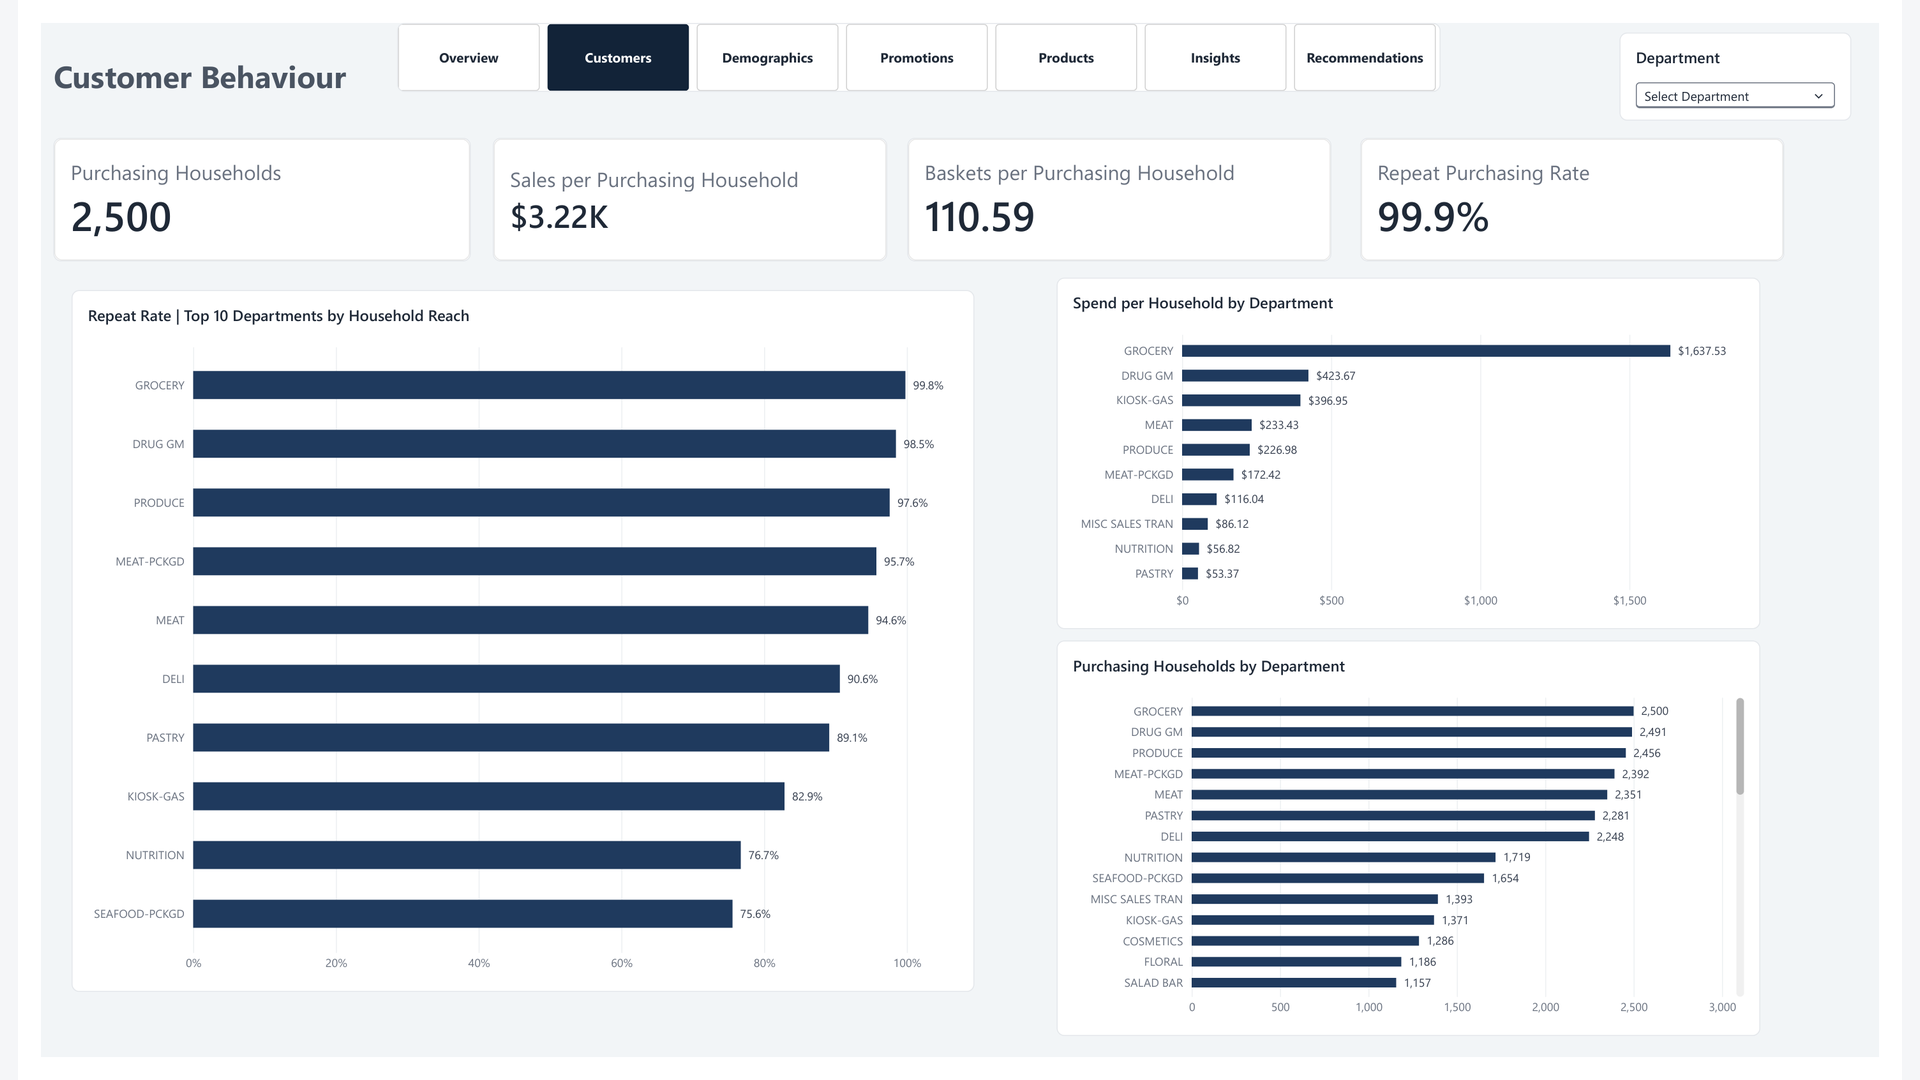
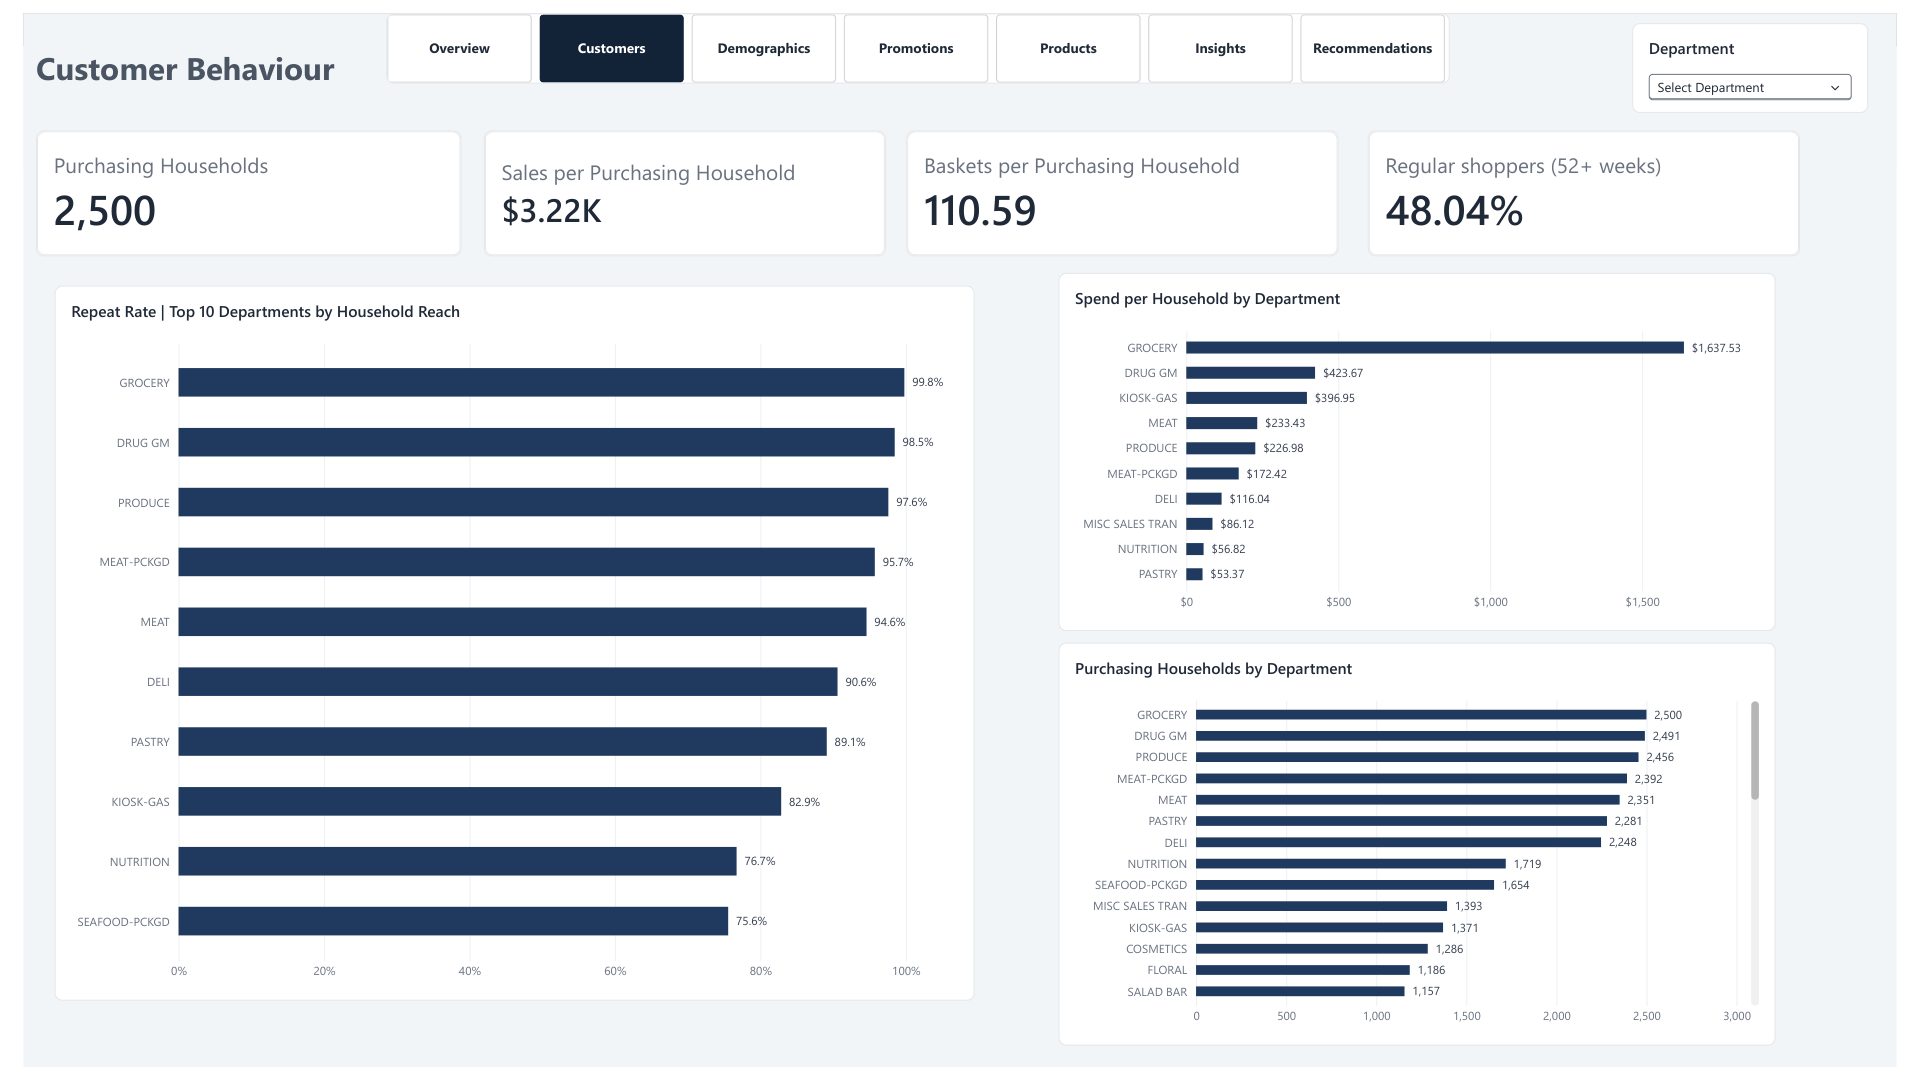
Update final Power BI dashboard and portfolio assets

diff --git a/docs/index.html b/docs/index.html
@@ -107,7 +107,7 @@
     <section id="panel-demographics" class="page-panel" role="tabpanel" aria-labelledby="tab-demographics" tabindex="0" data-panel="demographics" hidden>
       <div class="page-heading">
         <div><p class="eyebrow">03 / Customer demographics</p><h2>Coverage is a key part of the story</h2></div>
-        <p>Income-group findings describe only households with a recorded demographic row, not the full purchasing base.</p>
+        <p>Income-group findings describe households with a recorded demographic row, not the full purchasing base. The (Blank) income category is removed from comparison charts only; unknown households remain included in overall coverage reporting.</p>
       </div>
       <div class="metric-grid metric-grid-three">
         <article class="metric-card"><span>Known demographics</span><strong>801</strong><small>Of 2,500 purchasing households</small></article>
@@ -158,7 +158,7 @@
         <div class="chart-host" data-chart-host="groceryBrand" aria-live="polite"></div>
         <p class="chart-note">These are revenue comparisons, not price, margin or preference measures. Household counts by brand overlap.</p>
       </article>
-      <aside class="callout"><strong>Manufacturer identifiers are not supplier names</strong><p>Manufacturer ID 69 has $2,178,431.70 recorded revenue (27.04% of all sales), but its commercial identity is unverified. It is not labelled as a company here.</p></aside>
+      <aside class="callout"><strong>Manufacturer identifiers are not supplier names</strong><p>On the filtered Power BI Products page, Manufacturer 69 is labelled Mfr 69 (private label) and has a 20.80% share of $7,393,280.76 in page sales. Across all departments, Manufacturer 69 recorded $2,178,431.70, or 27.04% of all sales. These are different reporting scopes, and its commercial identity is unverified.</p></aside>
     </section>
 
     <section id="panel-insights" class="page-panel" role="tabpanel" aria-labelledby="tab-insights" tabindex="0" data-panel="insights" hidden>

diff --git a/docs/dashboard_guide.md b/docs/dashboard_guide.md
@@ -4,11 +4,11 @@ The local Desktop report contains seven business pages plus **DAX TESTING** and 
 
 | Page | What it shows | Saved page slicers |
 |---|---|---|
-| **Executive Overview** | Total sales, baskets, purchasing households, average basket value, sales by reporting week and department performance. | Department; store ID. |
-| **Customer Behaviour** | Purchasing households, sales and baskets per purchasing household, and repeat purchasing measures. | Department. |
-| **Customer Demographics** | Income-group comparisons for purchasing households and sales per purchasing household. | No page slicer identified in the saved definition. |
+| **Executive Overview** | Total sales, baskets, purchasing households, average basket value, sales by reporting week and department performance. The Weekly Sales Trend uses weeks 20–101, linear interpolation and a $0 Y-axis start. Weeks 1–19 are excluded while the household panel was building; approximately 99.7% of households had purchased by week 20. Weeks 1 and 102 are partial, with five and six days respectively. Overview KPI cards remain full-period, including $8.06M in sales. | Department; store ID. |
+| **Customer Behaviour** | Purchasing households, sales and baskets per purchasing household, and Regular shoppers (52+ weeks) at 48.04%. This measure is the percentage of purchasing households that bought products in at least 52 distinct weeks across the observed period. | Department. |
+| **Customer Demographics** | Income-group comparisons for purchasing households and sales per purchasing household, excluding `(Blank)` from comparison charts only. Known demographics remain 801 of 2,500 purchasing households (32.0%); unknown households remain included in overall coverage reporting. | No page slicer identified in the saved definition. |
 | **Promotions & Coupons Dashboard** | Redemption records and redeeming households alongside promotion-record coverage and unknown-status sales lines. | No page slicer identified; a chart uses campaign ID. |
-| **Supplier & Product Performance** | Manufacturer-ID and sub-category rankings, product sales, purchasing households, basket reach and sales share. | Department; brand; disconnected Top N selector. |
+| **Supplier & Product Performance** | Manufacturer-ID and sub-category rankings, product sales, purchasing households, basket reach and sales share. This page excludes `KIOSK-GAS` and `MISC SALES TRAN` while retaining `MISC. TRANS.`. Excluded sales are $664,182.32; filtered page sales are $7,393,280.76. Manufacturer 69 is labelled `Mfr 69 (private label)` and has a 20.80% share within this filtered Products page. Its all-department share remains 27.04%. | Department; brand; disconnected Top N selector. |
 | **Business Insights** | Brand revenue and reach alongside basket-composition comparisons and written findings. | No page slicer identified. |
 | **Business Recommendations** | Three evidence-based actions with supporting context. | No page slicer identified. |
 
@@ -16,6 +16,8 @@ The Supplier page's **Top N** control is designed for Top 5, 10, 20, 50 and All 
 
 The report uses ten core reporting tables, plus the disconnected Top N selector and an imported **Basket Brand Insights** summary. Use the line-level sales table for sales, the basket table for overall basket counts, and the redemption fact for actual coupon use. A product-filtered basket measure counts distinct qualifying basket IDs from sales lines. Do not add basket sales to line sales or join the coupon/campaign bridges directly to sales. [Architecture](architecture.md) explains why.
 
-Interpret the pages carefully: days and weeks are relative, not calendar dates; demographics cover only 801 purchasing households; missing promotion matches are unknown; and manufacturer IDs are not verified supplier identities. The promotions page is descriptive, not an uplift or ROI analysis. The overall quantity field is unsuitable as a general “Units Sold” KPI because fuel dominates it; a development QA table still contains the measure.
+The updated Manufacturer Sales Share calculation removes manufacturer filters from both `manufacturer_id` and `Manufacturer Display`, keeping the share denominator across manufacturers within the current page scope. The 20.80% Products-page share and the 27.04% all-department share therefore describe different reporting scopes.
+
+Interpret the pages carefully: days and weeks are relative, not calendar dates; demographic information is known for only 801 purchasing households; missing promotion matches are unknown; and manufacturer IDs are not verified supplier identities. The promotions page is descriptive, not an uplift or ROI analysis. The overall quantity field is unsuitable as a general “Units Sold” KPI because fuel dominates it; a development QA table still contains the measure.
 
 **Development pages:** DAX TESTING and DATA QA are development pages. They are hidden from the published screenshots and are not part of the seven business pages. The [data-source note](data_source.md) explains the open redistribution question.

diff --git a/DECISIONS.md b/DECISIONS.md
@@ -603,3 +603,13 @@ By 6 November 2026, the local PBIX contains seven business pages plus DAX Testin
 The publication audit found that the dataset, fixture CSVs and local Power BI Import file need a redistribution-rights and embedded-data review. The documentation and screenshot checklist exist locally but are not yet committed. The ingestion and CI drafts have not passed an isolated local validation. A verified dbt test run is evidence for the existing analytics models, not evidence that the full pipeline can be rebuilt safely from an empty database.
 
 **Decision:** Keep source data, fixture CSVs, the PBIX, credentials, generated caches and Docker data out of ordinary Git staging. Publish reviewed documentation and code only after checking links, paths and secrets. Replace personal setup paths with portable dbt profile instructions, record the unresolved rights question in [data source and reproduction](docs/data_source.md), and validate the loader against a disposable database before considering CI. No analytical SQL, data or report file is changed by this documentation decision.
+
+## D037. Document the final Power BI dashboard corrections (12 November 2026)
+
+**Decision:** The Weekly Sales Trend uses a visual-level filter for weeks 20–101, linear interpolation and a $0 Y-axis start. Weeks 1–19 are excluded while the household panel was still building; approximately 99.7% of households had purchased by week 20. Weeks 1 and 102 are partial, with five and six days respectively. Overview KPI cards remain full-period, including $8.06M in sales.
+
+The Supplier & Product Performance page excludes `KIOSK-GAS` and `MISC SALES TRAN` while retaining `MISC. TRANS.`. The excluded sales are $664,182.32 and the filtered page sales are $7,393,280.76. Manufacturer 69 is labelled `Mfr 69 (private label)` and has a 20.80% share within the filtered Products page, compared with 27.04% across all departments. The updated Manufacturer Sales Share calculation removes manufacturer filters from both `manufacturer_id` and `Manufacturer Display`.
+
+The Customers page replaces the former Repeat Purchasing Rate KPI with Regular shoppers (52+ weeks), defined as the percentage of purchasing households that bought products in at least 52 distinct weeks across the observed period. The result is 48.04%.
+
+The Demographics comparison charts omit the `(Blank)` income category only. Known demographics remain 801 of 2,500 purchasing households, or 32.0%; households with unknown demographics remain included in overall coverage reporting.

diff --git a/README.md b/README.md
@@ -64,4 +64,4 @@ In Power BI Desktop, choose **Get data > PostgreSQL database**, server `127.0.0.
 
 ## Limits and evidence
 
-The full-data local dbt run on **2 November 2026** passed 73 tests and reconciled sales, baskets, households and 2,318 coupon redemptions. Only 801 purchasing households have demographics. Promotion records are missing for most lines, some source promotion states conflict, and promotion-code meanings are unverified. Days are relative, with no verified calendar dates; store IDs have no verified locations. No promotion uplift, margin improvement, production deployment or Snowflake integration is claimed. See [data quality](docs/data_quality.md) and the [decision log](DECISIONS.md).
+The full-data local dbt run on **2 November 2026** passed 73 tests and reconciled sales, baskets, households and 2,318 coupon redemptions. Only 801 purchasing households have demographics. Promotion records are missing for most lines, some source promotion states conflict, and promotion-code meanings are unverified. Days are relative, with no verified calendar dates; store IDs have no verified locations. The Weekly Sales Trend excludes weeks 1–19 while the household panel was still building; approximately 99.7% of households had purchased by week 20. This visual filter does not change the full-period KPI totals. No promotion uplift, margin improvement, production deployment or Snowflake integration is claimed. See [data quality](docs/data_quality.md) and the [decision log](DECISIONS.md).
